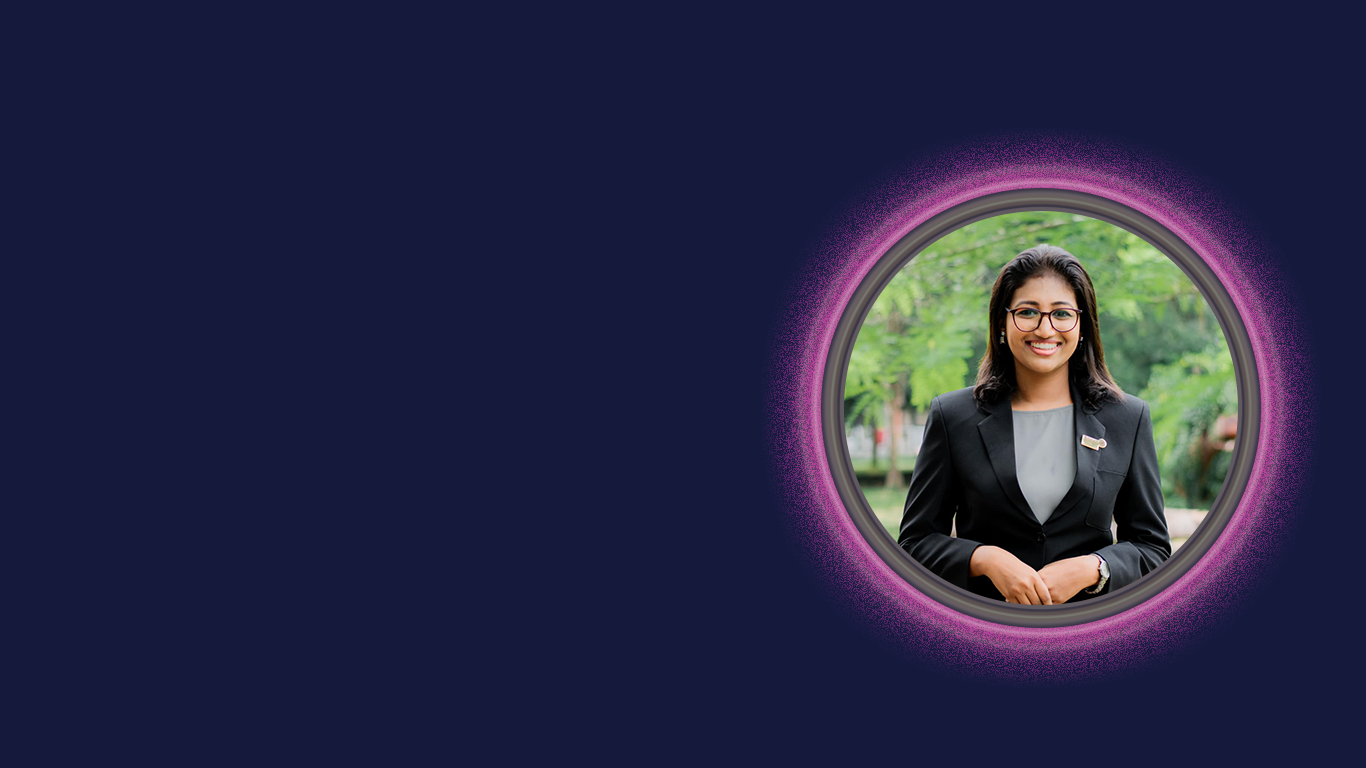
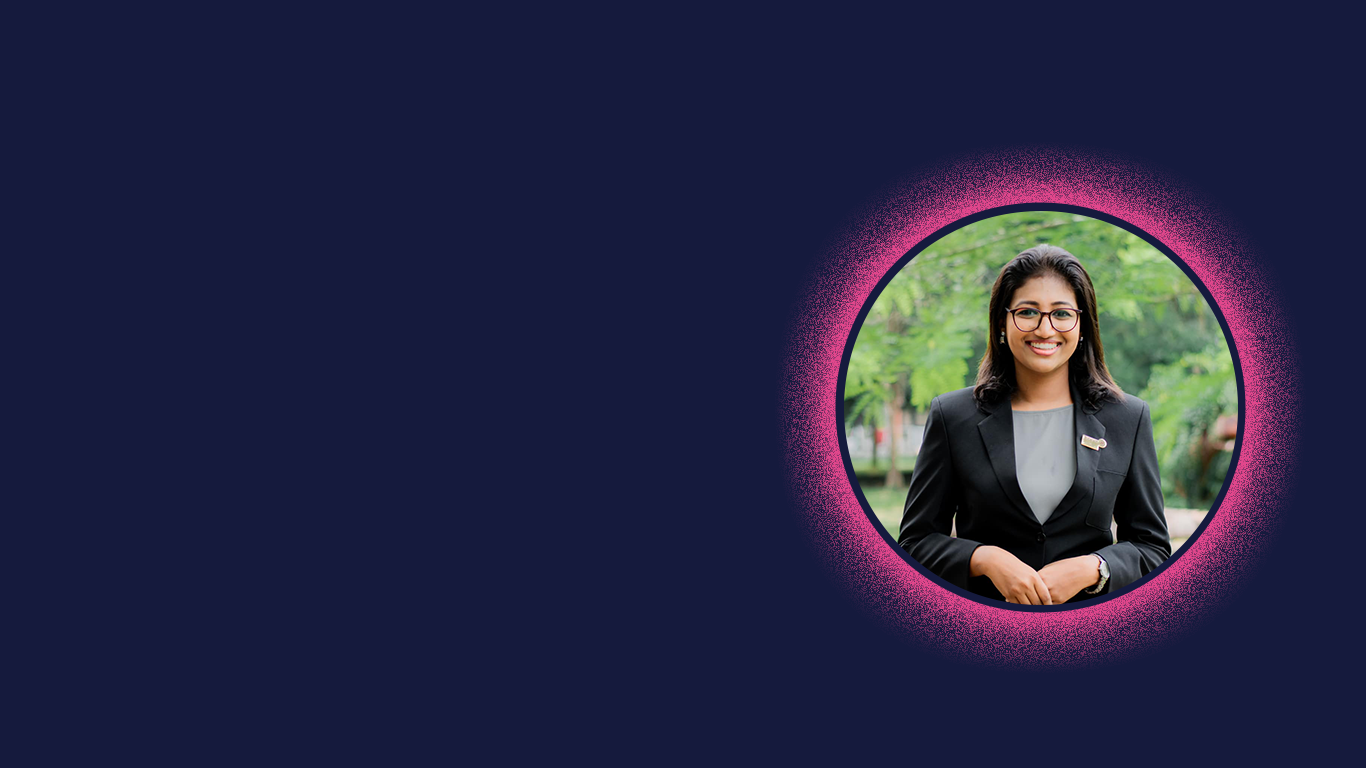
created the section 2

Changed region(s): [[0.5534, 0.1562, 0.9531, 0.9062]]

diff --git a/stylesheet.css b/stylesheet.css
@@ -6,7 +6,8 @@
 }
 
 body {
-    background: #f2f2f2;
+    color: #f2f2f2;
+    background: #151a3d;
 }
 
 .header {
@@ -15,7 +16,7 @@ body {
     position: fixed;
     top: 0;
     left: 0;
-    background: transparent;
+    background: #060b32;
     z-index: 100;
     display: flex;
     justify-content: space-between;
@@ -155,6 +156,57 @@ body {
         0 0 25px #da0f74,
         0 0 50px #f594c4;
 }
+
+.about{
+    display: grid;
+    grid-template-columns: repeat(2, 1fr);
+    align-items: center;
+    gap: 1.5rem;
+}
+
+.about-img img{
+    padding-bottom: 20%;
+    padding-left: 20%;
+    padding-top: 20%;
+    max-width: 600px;
+    height: auto;
+    width: 100%;
+    border-radius: 8px;
+}
+
+.about-text h2{
+    font-size: 60px;
+}
+
+.about-text h2 span{
+    color: #df3268;
+}
+
+.about-text h4{
+    font-size: 20px;
+    font-weight: 600;
+    color: #fff;
+    line-height: 1.7;
+    margin : 15px 0 30px;
+}
+
+.about-text p{
+    font-size: 20px;
+    color: #fff;
+    line-height: 1.4;
+    margin-bottom: 4rem;
+    padding-right: 20%;
+    text-align: left;
+}
+
+
+
+
+
+
+
+
+
 
 @keyframes slideRight {
     0% {
